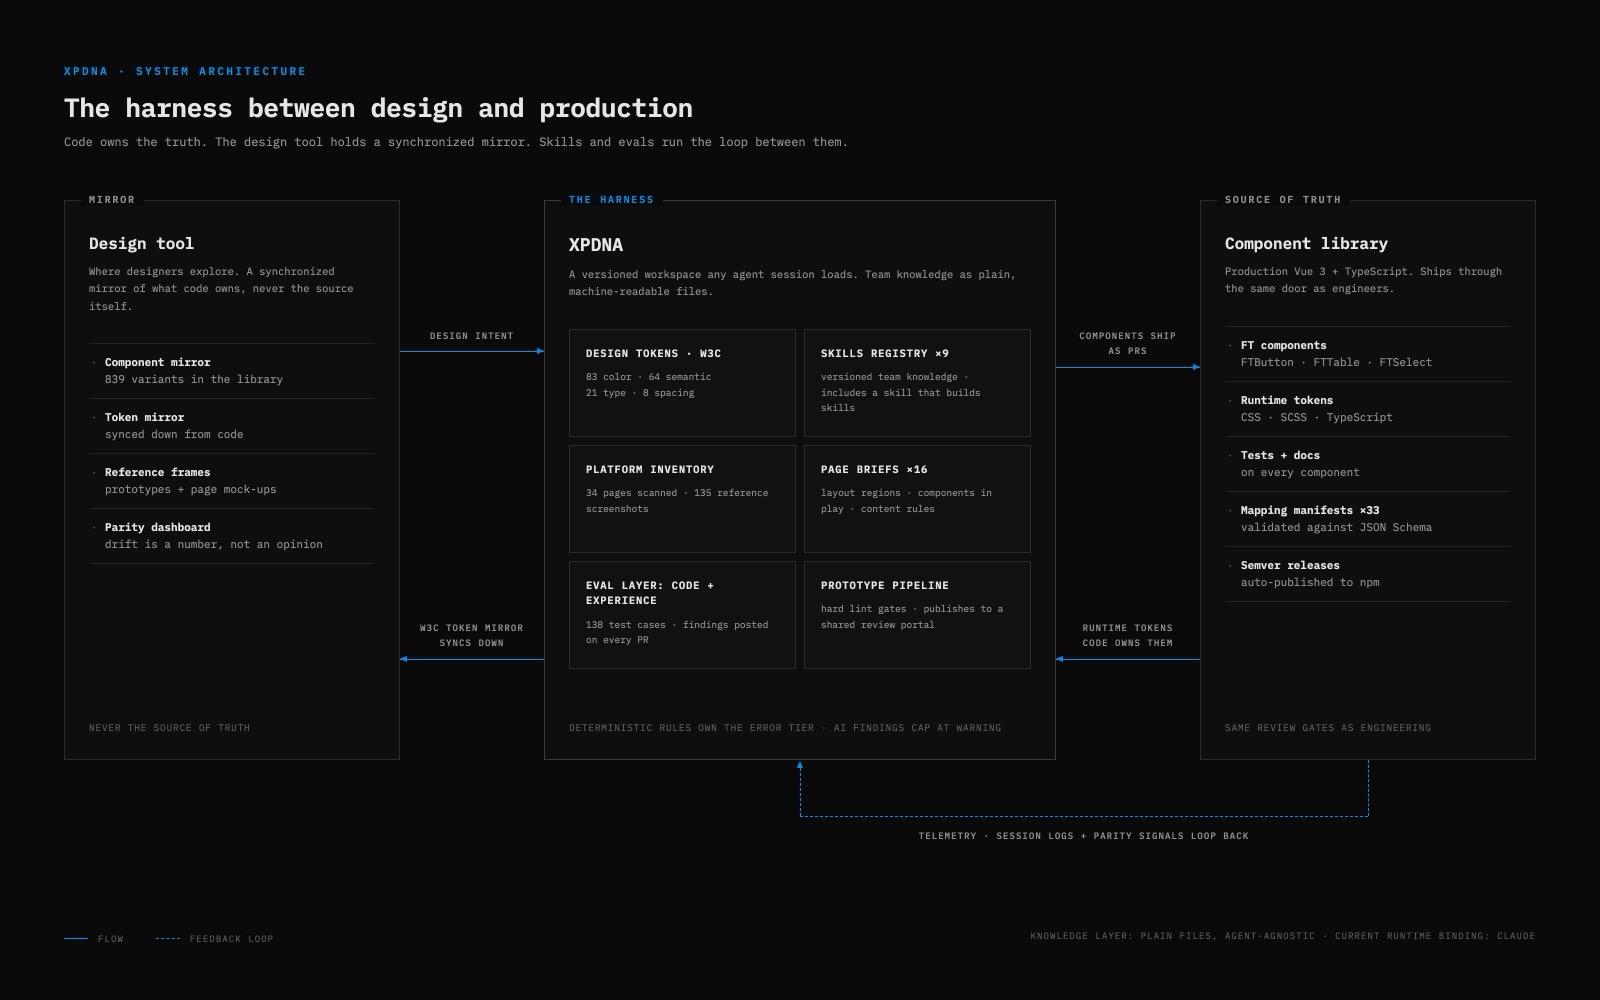
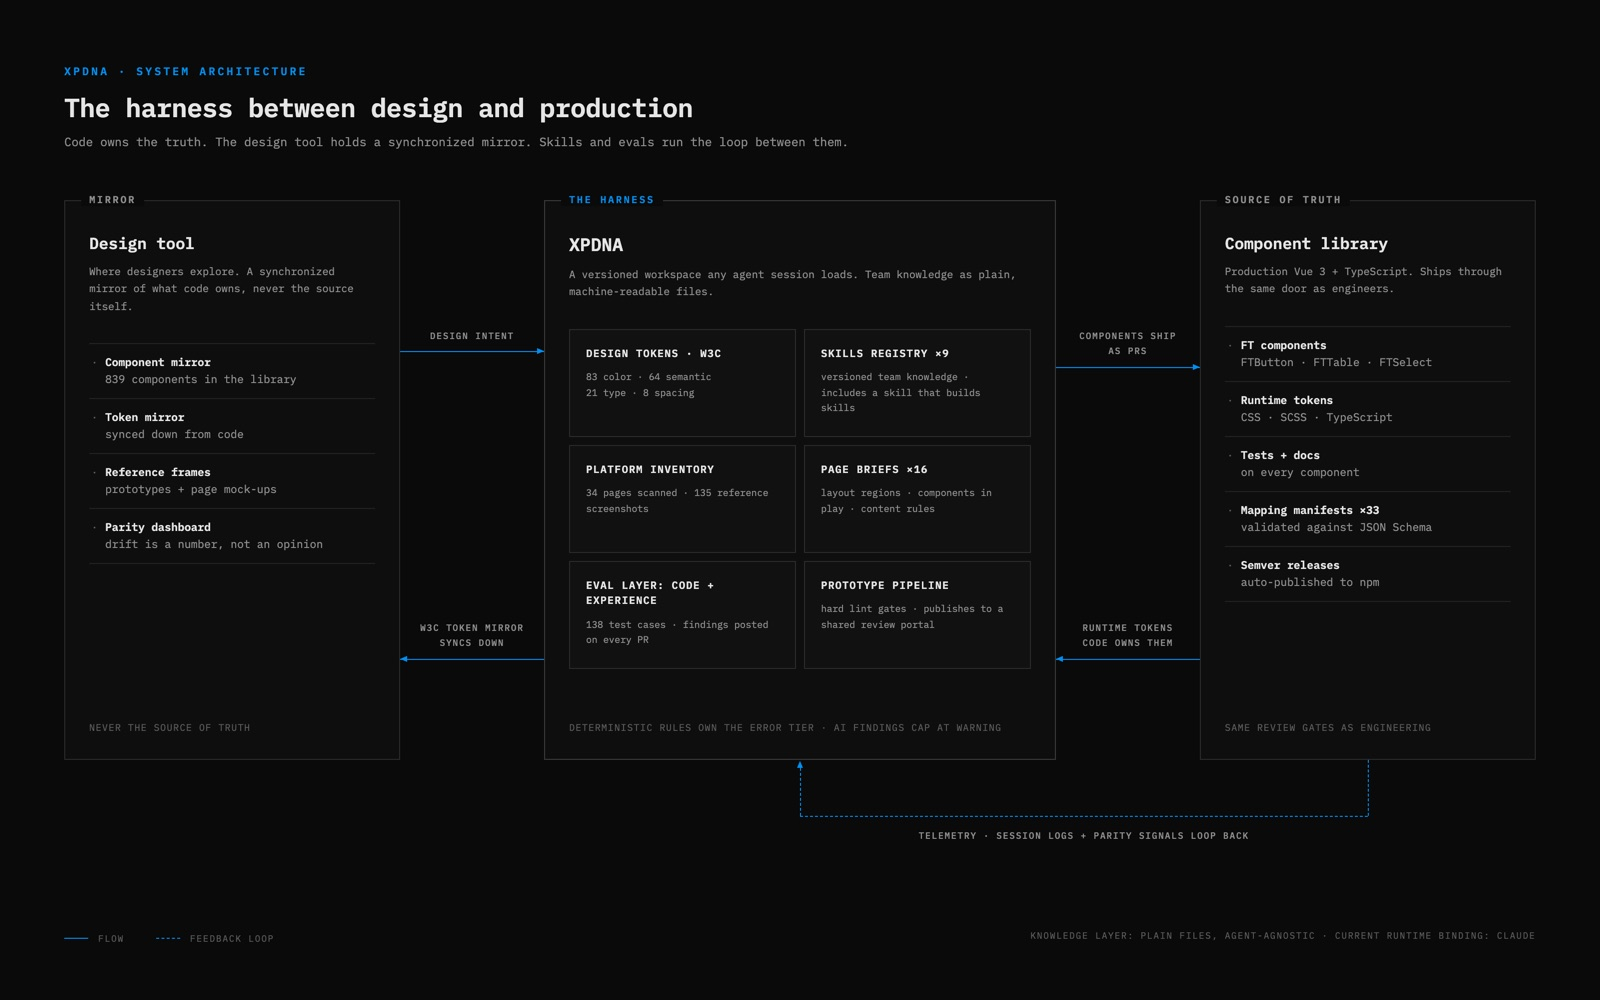
fix(work): 839 components wording in diagram; accurate lifecycle caption

diff --git a/lib/caseStudies/xpdna.ts b/lib/caseStudies/xpdna.ts
@@ -226,8 +226,8 @@ export const xpdna: CaseStudy = {
     images: [
       {
         url: '/img/xpdna/lifecycle.jpg',
-        alt: 'Loop diagram of the XPDNA lifecycle: discover, design, eval, pull request, production, telemetry, feeding back into discovery, with annotations marking the gaps each stage replaced',
-        caption: 'The lifecycle the harness runs: discover, design, eval, PR, production, telemetry, and back around. Each stage is annotated with the gap it replaced',
+        alt: 'Loop diagram of the XPDNA lifecycle: discover, brief, generate, eval gate, PR and review, production, and telemetry, feeding back into discovery, with the four replaced gaps marked',
+        caption: 'The delivery loop from discover to telemetry, and back around. The four stages that used to be gaps carry their before state: manual translation, optional review, weeks-to-months approval, no measurement',
       },
       {
         url: '/img/xpdna/terminal-eval.jpg',
